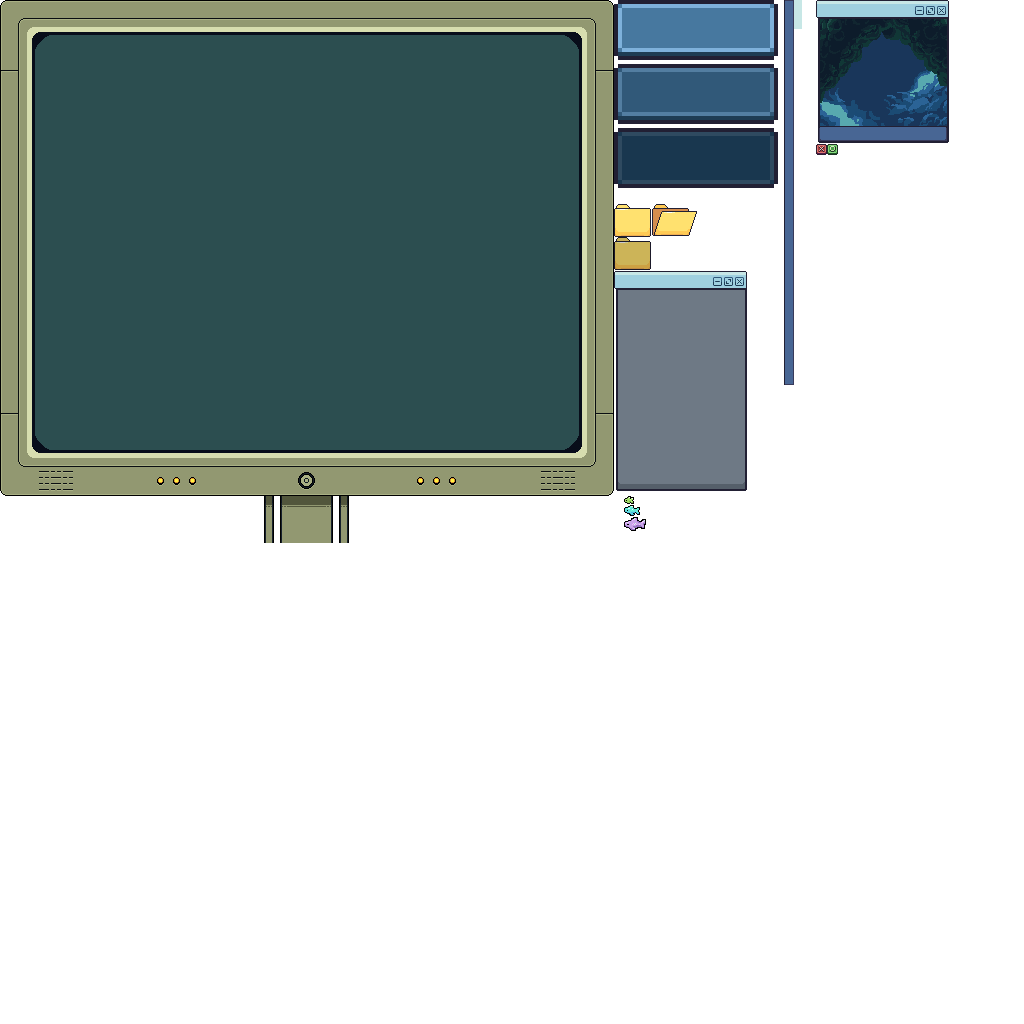
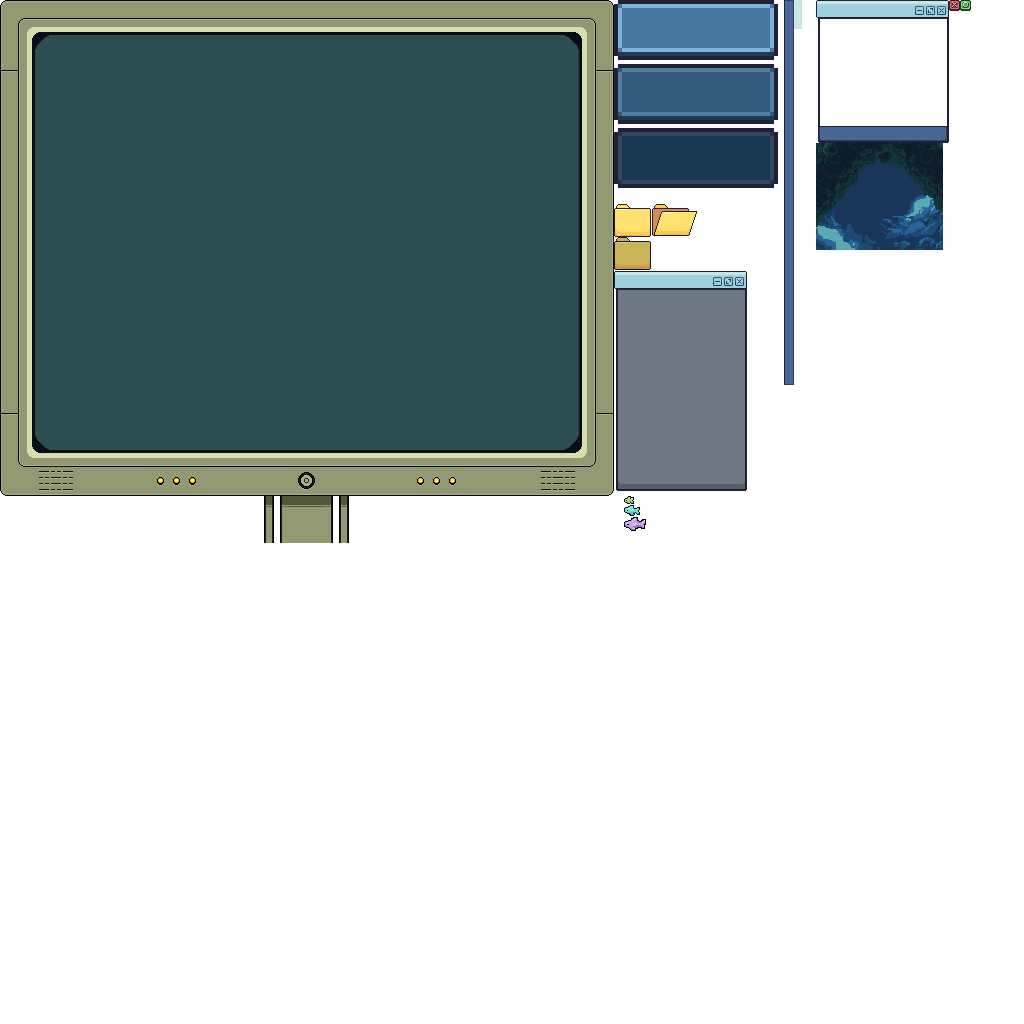
fishcam stuff

Changed region(s): [[0.7812, 0.0, 0.9688, 0.25]]

diff --git a/core/src/main/java/dev/juliusabels/fish_fiesta/screens/level/LevelScreen.java b/core/src/main/java/dev/juliusabels/fish_fiesta/screens/level/LevelScreen.java
@@ -4,10 +4,12 @@ import com.badlogic.gdx.Gdx;
 import com.badlogic.gdx.Input;
 import com.badlogic.gdx.graphics.Color;
 import com.badlogic.gdx.graphics.g2d.BitmapFont;
+import com.badlogic.gdx.scenes.scene2d.InputEvent;
 import com.badlogic.gdx.scenes.scene2d.ui.Image;
 import com.badlogic.gdx.scenes.scene2d.ui.Label;
 import com.badlogic.gdx.scenes.scene2d.ui.Table;
 import com.badlogic.gdx.scenes.scene2d.ui.Tooltip;
+import com.badlogic.gdx.scenes.scene2d.utils.DragListener;
 import dev.juliusabels.fish_fiesta.FishFiestaGame;
 import dev.juliusabels.fish_fiesta.game.ConditionType;
 import dev.juliusabels.fish_fiesta.game.level.Level;
@@ -33,7 +35,19 @@ public class LevelScreen extends FFBaseScreen {
 
         contentTable.clear();
 
+        Table fishCamWindow = new Table();
+        fishCamWindow.background(this.monitorSkin.getDrawable("fishcam-window"));
 
+        Table cam = new Table();
+        Image bg = new Image(this.monitorSkin.getDrawable("fishcam-bg"));
+        cam.add(bg).padTop(1).padLeft(2);
+
+        //TODO here add fish to cam
+
+
+        fishCamWindow.add(cam);
+
+        contentTable.add(fishCamWindow).expand().left().padLeft(60).padBottom(160);
 
 
         Table guestListWindow = new Table();

diff --git a/core/src/main/java/dev/juliusabels/fish_fiesta/util/ResourceHandler.java b/core/src/main/java/dev/juliusabels/fish_fiesta/util/ResourceHandler.java
@@ -52,10 +52,6 @@ public class ResourceHandler {
         return "assets/" + fileName;
     }
 
-    public static String shaderFile(String fileName) {
-        return "shader/" + fileName;
-    }
-
     public static String levelFile(String fileName) {
         return "levels/" + fileName;
     }
